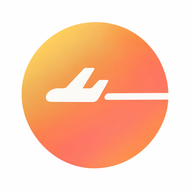
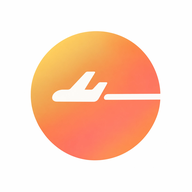
主圖示再縮小 12%（目前 85% → 約 75%）(v2026.10.30.29)

Changed region(s): [[0.0938, 0.0938, 0.875, 0.9062]]

diff --git a/app.js b/app.js
@@ -4,7 +4,7 @@
 ═══════════════════════════════════════ */
 
 /* 版本號：顯示在「設定」頁最下方，每次推送更新時一起遞增，用來確認手機拿到的是不是最新版 */
-const APP_VERSION = '2026.10.30.28';
+const APP_VERSION = '2026.10.30.29';
 
 /* ─── SVG Icon Strings ─── */
 const EDIT_SVG  = `<svg xmlns="http://www.w3.org/2000/svg" viewBox="0 -960 960 960"><path d="M200-200h57l391-391-57-57-391 391v57Zm-80 80v-170l528-527q12-11 26.5-17t30.5-6q16 0 31 6t26 18l55 56q12 11 17.5 26t5.5 30q0 16-5.5 30.5T817-647L290-120H120Zm640-584-56-56 56 56Zm-141 85-28-29 57 57-29-28Z"/></svg>`;

diff --git a/index.html b/index.html
@@ -8,8 +8,8 @@
   <meta name="apple-mobile-web-app-title" content="旅遊誌">
   <meta name="theme-color" content="#ffffff">
   <link rel="manifest" href="manifest.json">
-  <link rel="apple-touch-icon" href="icon-512.png?v=13">
-  <link rel="icon" type="image/png" sizes="192x192" href="icon-192.png?v=13">
+  <link rel="apple-touch-icon" href="icon-512.png?v=14">
+  <link rel="icon" type="image/png" sizes="192x192" href="icon-192.png?v=14">
   <title>旅遊誌</title>
   <link rel="stylesheet" href="style.css">
 </head>
